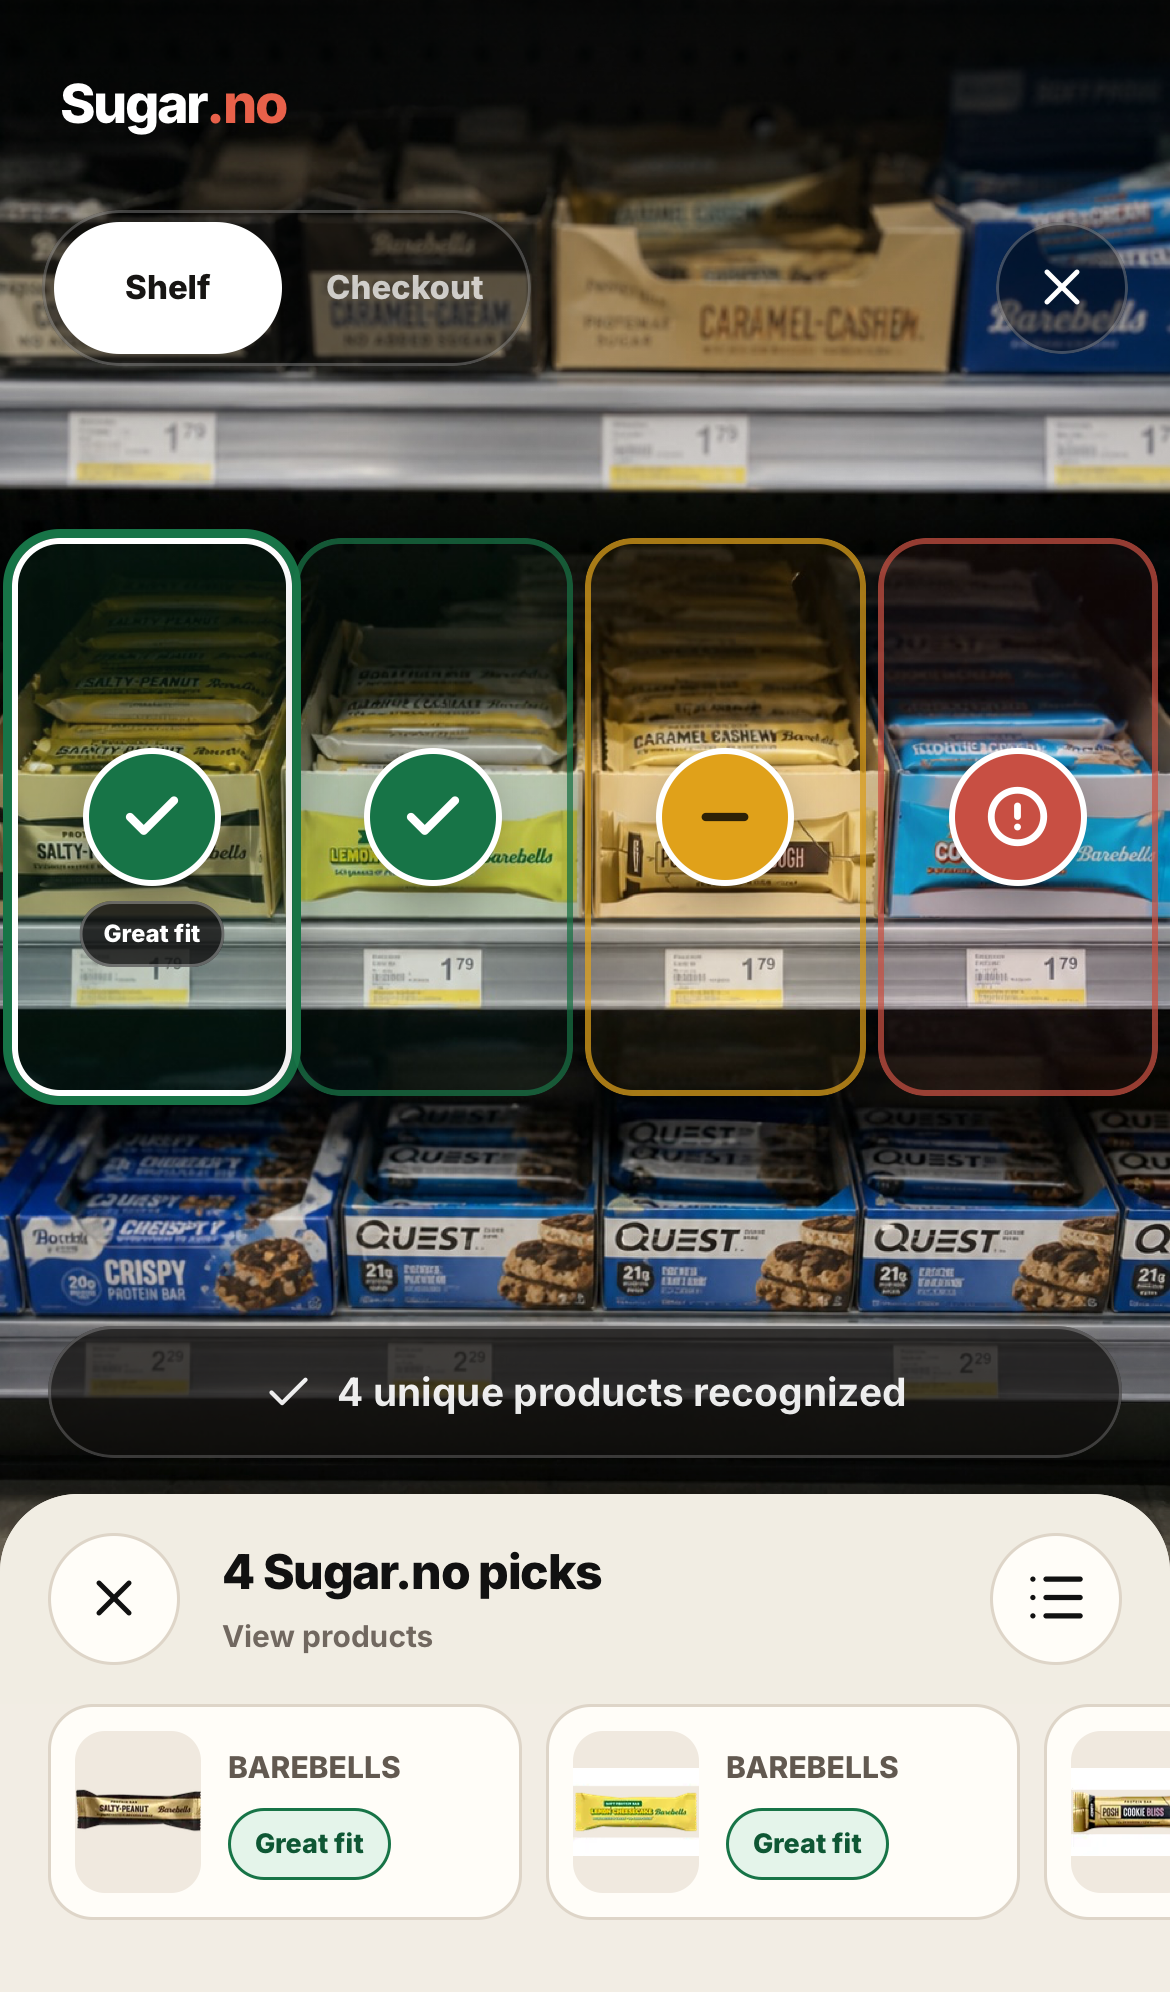
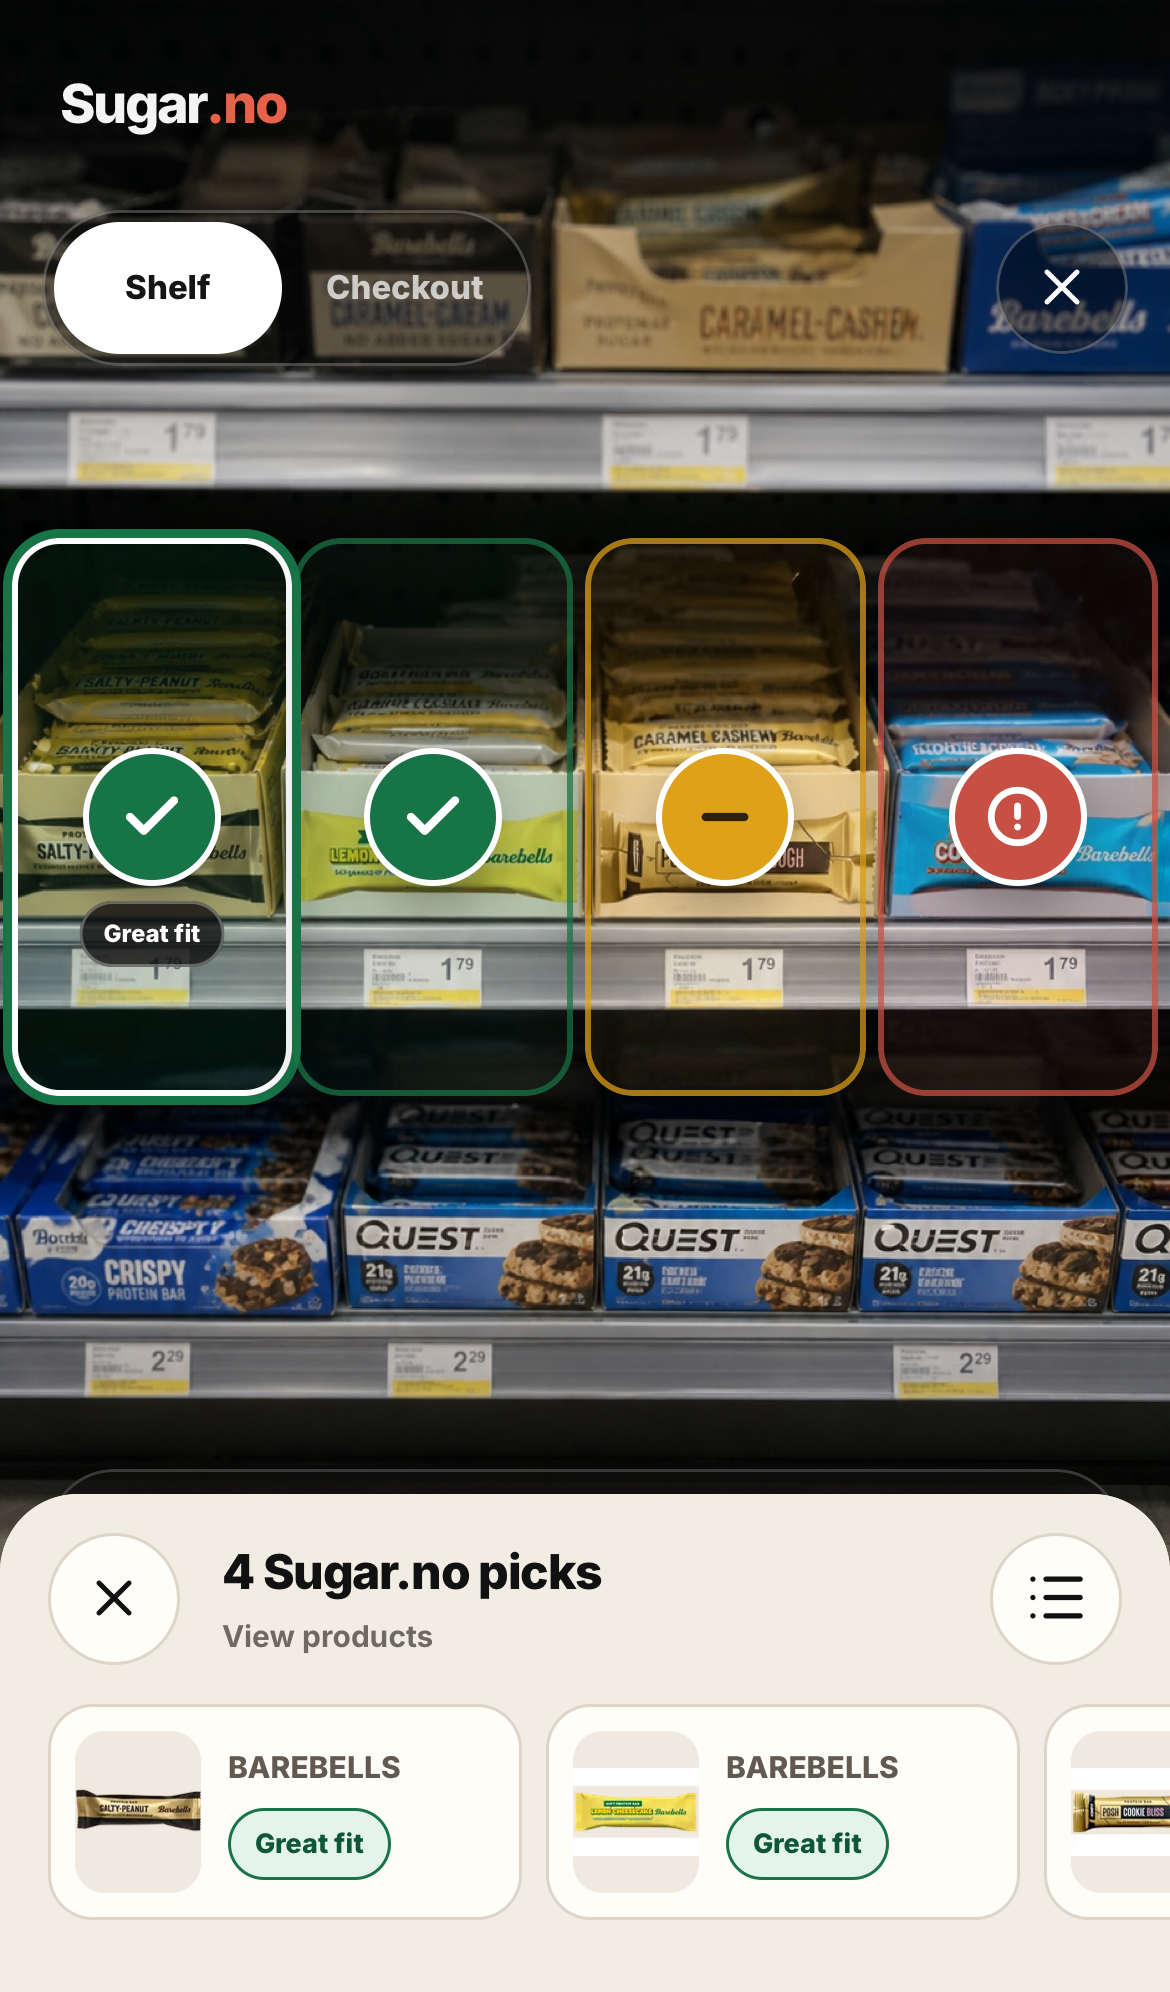
Move best fit into product heading

Changed region(s): [[0.0308, 0.6536, 0.9538, 0.747]]

diff --git a/src/components/scanner-app.tsx b/src/components/scanner-app.tsx
@@ -973,7 +973,13 @@ function ProductResult({
     <article className={styles.productResult}>
       <div className={styles.productHeading}>
         <div>
-          <p>{product.brand}</p>
+          {bestInScan && product.matchScore !== null ? (
+            <p className={styles.bestFitHeading}>
+              <Sparkles aria-hidden="true" size={13} />
+              Best fit in this scan
+            </p>
+          ) : null}
+          <p className={styles.productBrand}>{product.brand}</p>
           <h2>{product.shortName}</h2>
         </div>
       </div>
@@ -983,13 +989,6 @@ function ProductResult({
       ) : null}
 
       {product.matchScore !== null ? <SugarNoBadge product={product} /> : null}
-
-      {bestInScan && product.matchScore !== null ? (
-        <div className={styles.bestBadge}>
-          <Sparkles aria-hidden="true" size={15} />
-          Best fit in this scan
-        </div>
-      ) : null}
 
       {product.matchScore === null ? (
         <div className={styles.pendingData}>
@@ -1088,7 +1087,7 @@ function RecognizedProductResult({
     <article className={styles.productResult}>
       <div className={styles.productHeading}>
         <div>
-          <p>{identity.brand || "Recognized package"}</p>
+          <p className={styles.productBrand}>{identity.brand || "Recognized package"}</p>
           <h2>{[identity.name, identity.variant, visiblePackSize].filter(Boolean).join(" · ")}</h2>
         </div>
         <span className={styles.recognizedBadge}>
@@ -1115,7 +1114,7 @@ function LoadingProductResult({ detection }: { detection: ProductDetection }) {
     <article className={styles.productResult} aria-live="polite">
       <div className={styles.productHeading}>
         <div>
-          <p>{identity.brand || "Recognized package"}</p>
+          <p className={styles.productBrand}>{identity.brand || "Recognized package"}</p>
           <h2>{identity.name}</h2>
         </div>
       </div>

diff --git a/tests/e2e/scanner.spec.ts b/tests/e2e/scanner.spec.ts
@@ -46,6 +46,15 @@ test("sample shelf photo highlights products and shows a three-signal Sugar.no b
   await expect(resultsDialog).toBeVisible();
   const viewportHeight = await page.evaluate(() => window.innerHeight);
   await expect.poll(async () => (await resultsDialog.boundingBox())?.height ?? 0).toBeGreaterThanOrEqual(viewportHeight * 0.95);
+  const bestFitHeading = page.getByText("Best fit in this scan", { exact: true });
+  await expect(bestFitHeading).toBeVisible();
+  await expect
+    .poll(() =>
+      bestFitHeading.evaluate((element) =>
+        Boolean(element.parentElement?.querySelector("h2"))
+      )
+    )
+    .toBe(true);
   await page.screenshot({ path: "docs/screenshots/shelf-results-mobile.png" });
   await expect(page.getByLabel("Sugar.no badge")).toBeVisible();
   await expect(page.getByLabel("Sugar.no badge").getByText("Protein", { exact: true })).toBeVisible();

diff --git a/src/components/scanner-app.module.css b/src/components/scanner-app.module.css
@@ -812,7 +812,7 @@
   min-width: 0;
 }
 
-.productHeading p,
+.productBrand,
 .sectionHeading p {
   margin: 0 0 3px;
   color: #8a3a2c;
@@ -820,6 +820,23 @@
   font-weight: 800;
   letter-spacing: 0.08em;
   text-transform: uppercase;
+}
+
+.bestFitHeading {
+  display: inline-flex;
+  align-items: center;
+  gap: 5px;
+  margin: 0 0 7px;
+  color: #285b42;
+  font-size: 10px;
+  font-weight: 820;
+  letter-spacing: 0.06em;
+  line-height: 1.2;
+  text-transform: uppercase;
+}
+
+.bestFitHeading svg {
+  flex: 0 0 auto;
 }
 
 .productHeading h2 {
@@ -945,7 +962,6 @@
   font-weight: 760;
 }
 
-.bestBadge,
 .claimBadge {
   display: inline-flex;
   min-height: 32px;
@@ -1408,6 +1424,10 @@
 
   .compactProductPrice > strong,
   .compactProductPrice > small {
+    color: #9dd7b6;
+  }
+
+  .bestFitHeading {
     color: #9dd7b6;
   }
 

diff --git a/playwright.config.ts b/playwright.config.ts
@@ -9,7 +9,9 @@ export default defineConfig({
   reporter: [["list"], ["html", { open: "never" }]],
   use: {
     baseURL: "http://127.0.0.1:3000",
-    trace: "retain-on-failure"
+    trace: "retain-on-failure",
+    // Page-level API mocks must not be bypassed by the production PWA worker.
+    serviceWorkers: "block"
   },
   webServer: {
     command: productionServer ? "npm run start" : "npm run dev",

diff --git a/docs/product-qa.md b/docs/product-qa.md
@@ -8,7 +8,7 @@ Run this check on the deployed HTTPS URL using Safari on an iPhone. Use a privat
 2. Enter the code. Confirm that the first screen says `19,076 Barbora pages indexed` and distinguishes package recognition from retailer-listed Sugar.no nutrition.
 3. Tap `Shelf photo`. Confirm that the camera scene fills the phone and four markers appear directly over the four supported packages: green check, yellow minus or coral alert. The selected marker must also say `Great fit`, `Moderate fit` or `Low fit`.
 4. Confirm that only a compact bottom sheet overlays the shelf. It should say `4 Sugar.no picks`, show product thumbnails and expose `View products` plus a list icon. Tap it and confirm it expands into a full-height comparison page; collapse it and confirm the held shelf returns unchanged.
-5. In the expanded page, confirm that the selected card has one compact Sugar.no badge with separate Protein, Fiber and Sugar signals, source values per 100 g and direction text. Confirm that no unexplained numeric score such as `86` appears.
+5. In the expanded page, confirm that the leading comparable product says `Best fit in this scan` as a small heading above its brand and name, not as a separate pill beneath the Sugar.no badge. Confirm that the selected card has one compact Sugar.no badge with separate Protein, Fiber and Sugar signals, source values per 100 g and direction text. Confirm that no unexplained numeric score such as `86` appears.
 6. Tap each marker and each small product in the tray. Confirm that the corresponding marker gets the white selected ring, its text appears and the product card changes.
 7. Swipe the Similar options cards left and right. Confirm that they are comparable formats and remain usable without horizontal page overflow.
 8. Open the Barbora action. Confirm that the exact SKU page opens in a new tab and that Sugar.no never claims affiliate revenue.
@@ -30,9 +30,10 @@ Run this check on the deployed HTTPS URL using Safari on an iPhone. Use a privat
 11. Include the product and one clearly associated shelf label in the same frame. Confirm the camera price appears directly beneath the recognized product in the compact sheet and product tray. If an exact Barbora match is cheaper, confirm only the shelf price is crossed out, the current online price plus check time are shown and the action says `Buy cheaper at Barbora`.
 12. Repeat with a non-exact retailer candidate. Confirm only the shelf price remains and there is no retailer link. A Coca-Cola result must never open Pepsi.
 13. Confirm `Great fit / Moderate fit / Low fit` markers appear only for products with a numeric full badge or quick view. A visual-only Coca-Cola or Activia result should have no camera marker and should say that it was identified but not highlighted.
-14. Repeat with an ambiguous label or multiple nearby prices. Confirm Sugar.no hides the shelf price instead of guessing.
-15. Cover the lens or use poor light. Confirm the interface stays usable and does not invent nutrition.
-16. Turn on airplane mode. Confirm that the preview stays local and recognition pauses with an offline message.
+14. Scan one rated product by itself. Confirm `Best fit in this scan` is absent because no comparison took place.
+15. Repeat with an ambiguous label or multiple nearby prices. Confirm Sugar.no hides the shelf price instead of guessing.
+16. Cover the lens or use poor light. Confirm the interface stays usable and does not invent nutrition.
+17. Turn on airplane mode. Confirm that the preview stays local and recognition pauses with an offline message.
 
 ## Saved image and privacy
 

diff --git a/README.md b/README.md
@@ -51,7 +51,7 @@ The main UI does not show an unexplained number. It presents a Sugar.no badge wi
 
 Each percentile uses all available verified values in the 40-product protein-snack category. A product receives no overall badge state unless its protein, fiber and total sugar are all numeric. A verified `no added sugar` claim is shown separately and never changes the comparison. Similar products rank by format first and internal comparison second; commercial status is not part of recommendation ranking.
 
-For exact Barbora food pages outside that category, the server calculates a separate reference-based quick view at recognition time. It requires page-listed energy, protein and total sugar. Protein uses the EU `source of protein` / `high protein` energy-share thresholds; total sugar uses the EU low-sugar threshold of 5 g/100 g for solids or 2.5 g/100 ml for liquids. Fiber uses the EU source/high-fiber thresholds when Barbora lists a numeric value. Sugar.no's yellow middle sugar band is explicitly defined as up to twice the official low-sugar threshold. The available two or three signal bands are averaged for the shelf summary. `Best fit in this scan` appears only when at least two rated products share the same rating basis; a category-percentile badge is never ranked against a retailer-reference quick view. These nutrition-claim references are not a medical or absolute health score. Adult products and pages without enough nutrition remain unrated. See [Regulation (EC) No 1924/2006](https://eur-lex.europa.eu/legal-content/en/TXT/?uri=CELEX%3A32006R1924).
+For exact Barbora food pages outside that category, the server calculates a separate reference-based quick view at recognition time. It requires page-listed energy, protein and total sugar. Protein uses the EU `source of protein` / `high protein` energy-share thresholds; total sugar uses the EU low-sugar threshold of 5 g/100 g for solids or 2.5 g/100 ml for liquids. Fiber uses the EU source/high-fiber thresholds when Barbora lists a numeric value. Sugar.no's yellow middle sugar band is explicitly defined as up to twice the official low-sugar threshold. The available two or three signal bands are averaged for the shelf summary. `Best fit in this scan` appears as a compact heading above the leading product name only when at least two rated products share the same rating basis; a category-percentile badge is never ranked against a retailer-reference quick view. These nutrition-claim references are not a medical or absolute health score. Adult products and pages without enough nutrition remain unrated. See [Regulation (EC) No 1924/2006](https://eur-lex.europa.eu/legal-content/en/TXT/?uri=CELEX%3A32006R1924).
 
 The comparison page deliberately has no save action. Similar options remain immediately comparable and the exact Barbora link remains available, but the proof of concept does not create or retain a personal product list.
 
@@ -116,6 +116,8 @@ For production-like browser tests, build first and then run:
 npm run build
 E2E_PRODUCTION=1 CI=1 npm run test:e2e
 ```
+
+The Playwright profile blocks service-worker registration so route-level recognition mocks behave the same in dev and production-mode runs. The deployed PWA worker remains enabled and is covered separately by the HTTPS production smoke.
 
 ## API
 

diff --git a/Bugs.md b/Bugs.md
@@ -17,6 +17,7 @@ This file is the running record of scanner defects found and resolved.
 - **2026-08-21: scanner fit labels differed from the main Sugar.no product.** All current markers, pills, legends, cards and accessibility labels now use the shared `Great fit`, `Moderate fit` and `Low fit` taxonomy from one presentation source; score thresholds and colors are unchanged.
 - **2026-08-21: the persistent `Private demo` header badge competed with the camera.** The scanner header now shows only the Sugar.no wordmark; the access-code gate and privacy protections are unchanged.
 - **2026-08-21: a single recognized product called itself `Best fit in this scan`.** The best-in-scan chip now requires at least two rated products, so it only appears when a real comparison exists.
+- **2026-08-24: `Best fit in this scan` looked like another result badge.** The comparison winner is now introduced by a compact heading above its brand and product name. The label remains absent for a one-product scan and no longer competes with the Sugar.no rating badge.
 - **2026-08-21: only 10 curated products displayed a Sugar.no result despite 19,076 Barbora pages being indexed.** The scanner now hydrates an exact `barbora:<slug>` SKU after recognition, fetches its live retailer page and creates an on-demand reference-based quick view when energy, protein and total sugar are listed. Missing fiber is a neutral `Not listed` third criterion and the UI says `2 of 3 source-backed signals`; adult, non-food and nutrition-poor pages remain unrated rather than receiving invented data.
 - **2026-08-21: product details displaced the camera and made the shelf feel secondary.** The scanner now owns the full phone viewport. Recognition first opens a compact thumbnail sheet over the bottom edge; the user deliberately expands it into a full comparison page and can collapse it back to the held camera frame. The expanded state traps interaction away from background camera controls and supports Escape/reduced motion.
 - **2026-08-21: gray `i` shelf markers looked like broken approval checks.** Detection and rating are now visually separated: the camera overlays only numeric Sugar.no results, while identified-but-unrated products remain named in the result sheet without a marker over the package.

diff --git a/docs/acceptance.md b/docs/acceptance.md
@@ -18,6 +18,7 @@ Status reflects reproducible evidence in this repository, not the intended final
 | Price requires shelf label | Unit regression requires a separate-label signal, confidence ≥0.90 and matching EUR text; browser regression confirms no price module without that evidence and no retailer link for a non-exact SKU | Pass locally |
 | Camera focuses on Sugar.no ratings | Boxes and colored markers render only for products with a numeric full badge or quick view; generic identities stay in the result sheet without an `i` overlay | Pass locally |
 | Rating legend reflects data | Legend renders only when at least one product has a numeric result; an all-unrated scan explicitly says that identified products were not highlighted | Pass locally |
+| Best-in-scan hierarchy | The label appears as an eyebrow heading above the product name only for two or more results with the same rating basis; a one-product regression proves it stays absent | Pass locally |
 | Nutrition never generated by AI | Recognition may return package text and shelf-label OCR, but nutrition comes only from curated sources or the exact live Barbora page | Pass |
 | Badge calculation and missing-data rule | Unit tests cover category percentiles, EU-reference bands, solid/liquid sugar thresholds, partial fiber, adult pages and no-data pages | Pass |
 | Exact Barbora link and current price | Live page parser, brand guard, candidate-margin tests and UI end-to-end assertions allow only an exact SKU to drive the `Cheaper at Barbora` action or crossed-out shelf price | Pass locally |

diff --git a/docs/design-reference.md b/docs/design-reference.md
@@ -6,3 +6,5 @@ The redesign uses two public interaction references without copying their brandi
 - [Lóvi scanner demonstration](https://www.linkedin.com/posts/ashagraev_aiindermatology-skincareinnovation-digitaldermatology-ugcPost-7495834066324221952-YY9y/): clear selected-object focus and an explicit visual cue for what will be recognized.
 
 Sugar.no applies those patterns to relative protein, fiber and total-sugar comparison. It uses the same product language as the main app: `Great fit`, `Moderate fit` and `Low fit` describe the three-signal category comparison and never label food as good, bad, healthy or unhealthy.
+
+When several comparable rated products are present, `Best fit in this scan` is a small eyebrow heading above the leading product name. It is not a separate status pill and stays hidden for a one-product scan.
